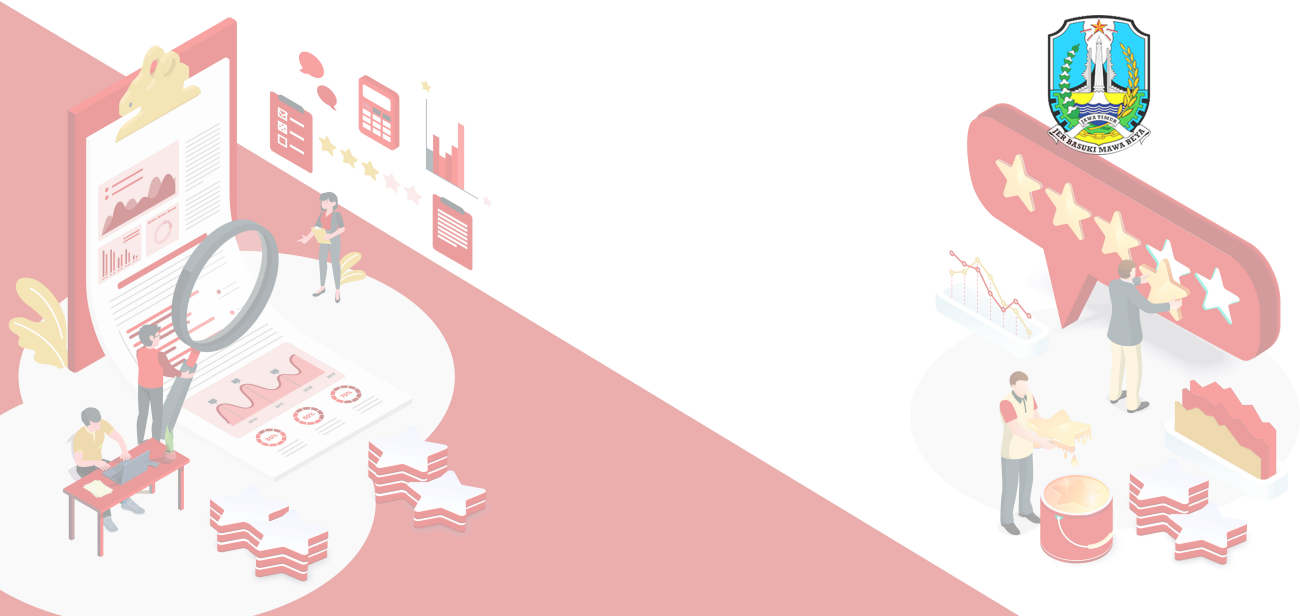
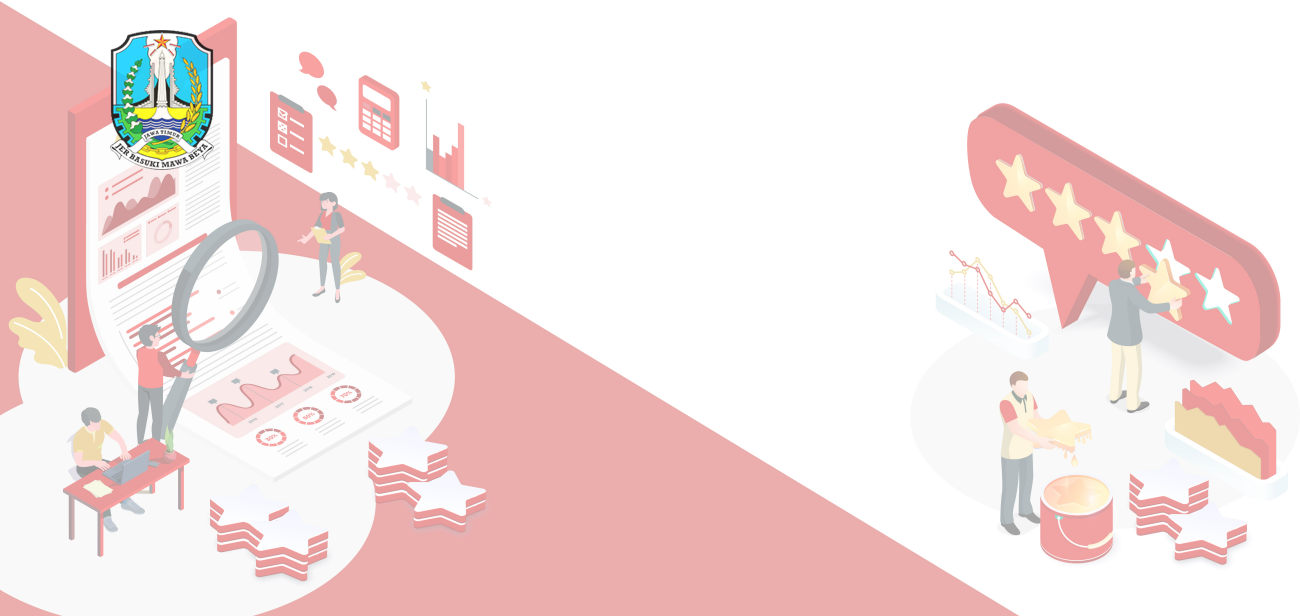
push

Changed region(s): [[0.0615, 0.0308, 0.1846, 0.2776], [0.8, 0.0, 0.8923, 0.2468]]

diff --git a/app/Http/Controllers/InovasiController.php b/app/Http/Controllers/InovasiController.php
@@ -102,15 +102,6 @@ class InovasiController extends Controller
 
     public function save(Request $request)
     {
-        $max_kata = 10;
-        $rancang_bangun = $request->rancang_bangun;  
-        $string = strip_tags($rancang_bangun);
-        $words = explode(' ', strip_tags($rancang_bangun));
-        $return = trim(implode(' ', array_slice($words, 0, 10)));
-        $kata = count($words);
-        if($kata < $max_kata){
-            return redirect()->back()->with('error', 'Minimal Data Rancang Bangun 300 kata');
-        }
         $tahapanKolom = Tahapan::where('tampilkan_kolom', 1)->get();
         $tempArr = [];
         if ($request->id == 0) {
@@ -171,6 +162,15 @@ class InovasiController extends Controller
                     return redirect($route)->with('success', 'Data Inovasi berhasil di-submit dan masuk ke tahap <b>Proses</b> ! Harap menunggu pengumuman lebih lanjut. Terima kasih');
                 }
             }
+        }
+        $max_kata = 10;
+        $rancang_bangun = $request->rancang_bangun;  
+        $string = strip_tags($rancang_bangun);
+        $words = explode(' ', strip_tags($rancang_bangun));
+        $return = trim(implode(' ', array_slice($words, 0, 10)));
+        $kata = count($words);
+        if($kata < $max_kata){
+            return redirect()->back()->with('error', 'Minimal Data Rancang Bangun 300 kata');
         }
         $data->nama = $request->nama;
         $data->tahapan_id = $request->tahapan_id;

diff --git a/resources/views/auth/login.blade.php b/resources/views/auth/login.blade.php
@@ -6,6 +6,7 @@
     <meta name="viewport" content="width=device-width, initial-scale=1.0">
     <meta http-equiv="X-UA-Compatible" content="ie=edge">
     <title>SI Inovasi - Login</title>
+    <link rel="icon" href="{{ asset('login.png') }}">
     <link rel="stylesheet" href="https://cdn.jsdelivr.net/npm/bootstrap@4.6.1/dist/css/bootstrap.min.css"
         integrity="sha384-zCbKRCUGaJDkqS1kPbPd7TveP5iyJE0EjAuZQTgFLD2ylzuqKfdKlfG/eSrtxUkn" crossorigin="anonymous">
     <style>

diff --git a/resources/views/layouts/main.blade.php b/resources/views/layouts/main.blade.php
@@ -6,6 +6,7 @@
     <meta http-equiv="X-UA-Compatible" content="IE=edge">
     <meta http-equiv="Content-Language" content="en">
     <meta http-equiv="Content-Type" content="text/html; charset=utf-8" />
+    <link rel="icon" href="{{ asset('login.png') }}">
     <title>{{ env('APP_NAME') }}</title>
     <meta name="viewport"
         content="width=device-width, initial-scale=1, maximum-scale=1, user-scalable=no, shrink-to-fit=no" />
